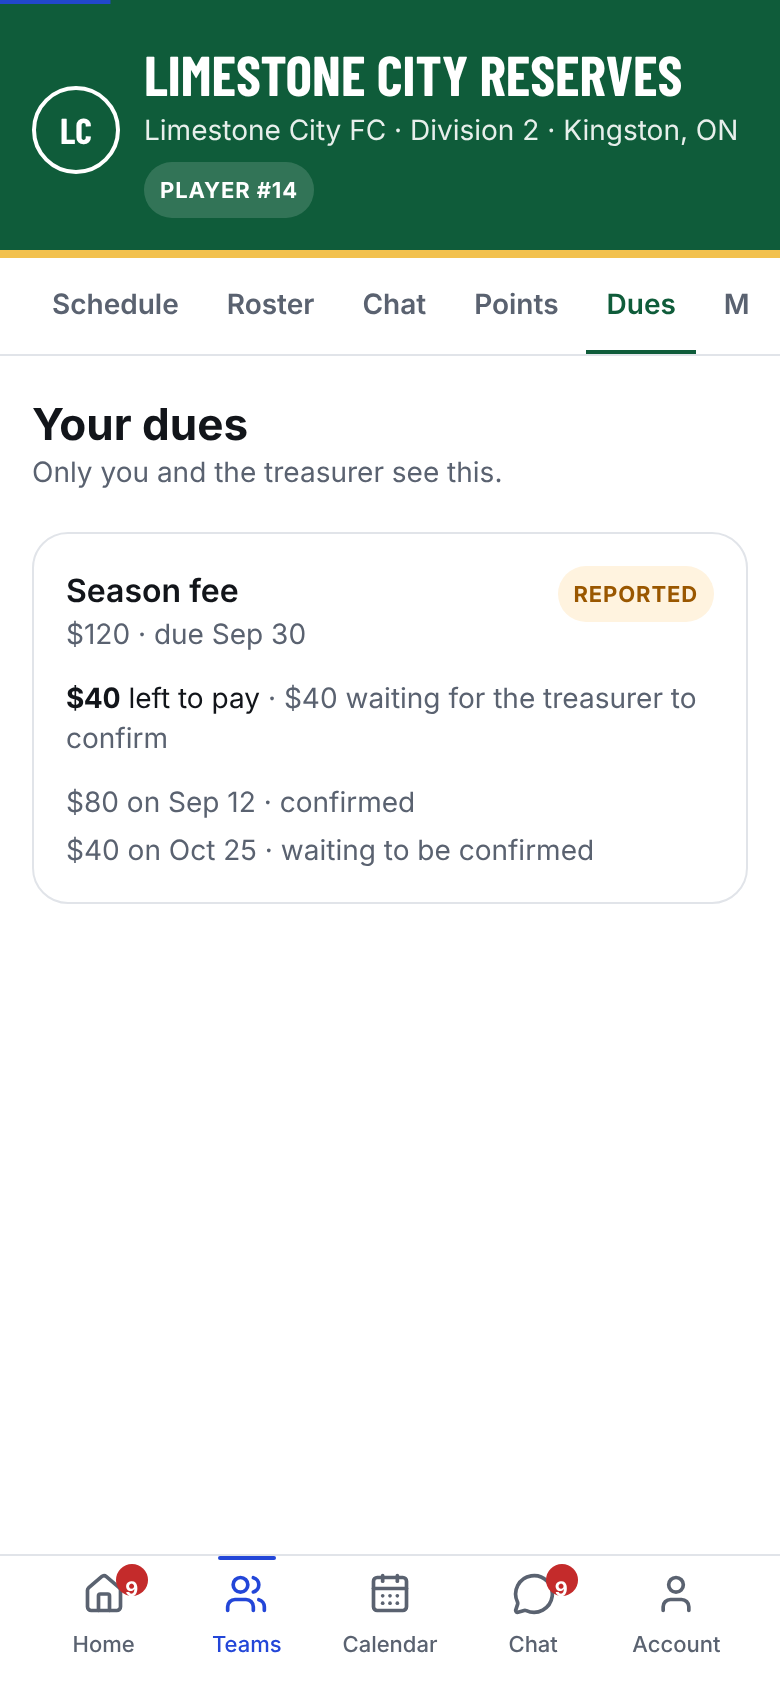
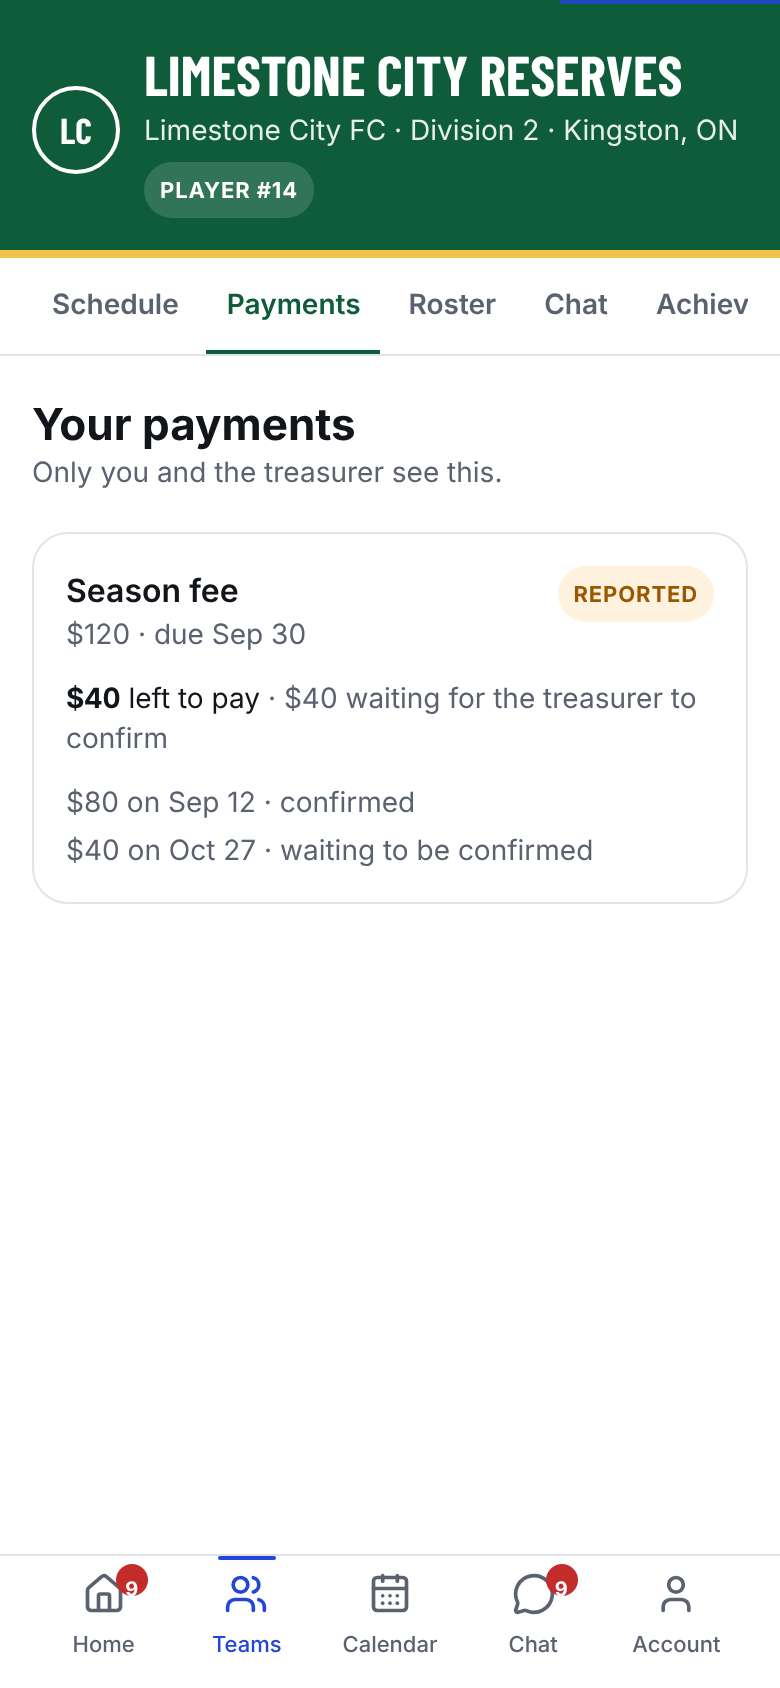
Payments tab next to Schedule, shown to every member (was Dues, hidden for some)
Claude-Session: https://claude.ai/code/session_01ErGsB6M5fXQxgMj1xA9MPR

diff --git a/src/app/(app)/t/[teamId]/dues/page.tsx b/src/app/(app)/t/[teamId]/dues/page.tsx
@@ -8,7 +8,7 @@ import { teamCollector } from "@/lib/payments/service";
 import { priceFor } from "@/lib/payments/pricing";
 import { CollectorPanel, PayButton } from "@/components/payments";
 
-export const metadata: Metadata = { title: "Dues" };
+export const metadata: Metadata = { title: "Payments" };
 
 const money = (c: number) => new Intl.NumberFormat("en-CA", { style: "currency", currency: "CAD", maximumFractionDigits: c % 100 ? 2 : 0 }).format(c / 100);
 const day = (d: string) => new Date(d + "T12:00:00Z").toLocaleDateString("en-CA", { month: "short", day: "numeric", timeZone: "UTC" });
@@ -30,12 +30,12 @@ export default async function DuesPage({ params, searchParams }: { params: Promi
     return (
       <div className="grid gap-5">
         <div>
-          <h2 className="text-xl font-bold">Your dues</h2>
+          <h2 className="text-xl font-bold">Your payments</h2>
           <p className="text-sm text-muted">Only you and the treasurer see this.</p>
         </div>
         {cancelled}
         {d.mine.length === 0 ? (
-          <EmptyState icon={<Wallet />} title="Nothing to pay" hint="If the team adds a fee, it shows up here." />
+          <EmptyState icon={<Wallet />} title="Nothing to pay" hint="Season fees from your team show up here. Game fees are on each event." />
         ) : (
           d.mine.map((m) => (
             <section key={m.dueId} aria-label={m.fee} className="grid gap-3 rounded-lg border border-border p-4">
@@ -87,7 +87,7 @@ export default async function DuesPage({ params, searchParams }: { params: Promi
     <div className="grid gap-5">
       {cancelled}
       <div className="flex flex-wrap items-baseline justify-between gap-2">
-        <h2 className="text-xl font-bold">Dues</h2>
+        <h2 className="text-xl font-bold">Payments</h2>
         <a href={`/t/${teamId}/export/dues.csv`} className="text-sm font-semibold text-team-ink">
           Export to a spreadsheet
         </a>

diff --git a/src/app/(app)/t/[teamId]/layout.tsx b/src/app/(app)/t/[teamId]/layout.tsx
@@ -1,5 +1,5 @@
 import { notFound } from "next/navigation";
-import { getSessionUser, getTeam, getTeamDues, myPerms } from "@/lib/data";
+import { getSessionUser, getTeam, myPerms } from "@/lib/data";
 import { TeamTabs } from "@/components/nav";
 import { HatBadges } from "@/components/hats";
 import { hatLabels } from "@/lib/data/types";
@@ -12,10 +12,9 @@ export default async function TeamLayout({ children, params }: { children: React
   const { teamId } = await params;
   const [team, user] = await Promise.all([getTeam(teamId), getSessionUser()]);
   if (!team) notFound();
-  const [perms, dues, honours] = await Promise.all([myPerms(teamId), getTeamDues(teamId), teamHonours(teamId)]);
+  const [perms, honours] = await Promise.all([myPerms(teamId), teamHonours(teamId)]);
   const wins = honours.filter((h) => h.place === "champions").length;
   const seconds = honours.length - wins;
-  const hasDues = !!dues && (dues.mine.length > 0 || dues.fees.length > 0);
   const subtitle = [team.club?.name, team.level, team.location].filter(Boolean).join(" · ");
   return (
     // Team colour vars for this id are already emitted by the app layout.
@@ -65,7 +64,7 @@ export default async function TeamLayout({ children, params }: { children: React
           </div>
         </div>
       </header>
-      <TeamTabs teamId={team.id} show={{ settings: perms.settings, points: team.settings.pointsEnabled && (team.settings.pointsPublic || perms.staff), dues: hasDues || perms.payments }} />
+      <TeamTabs teamId={team.id} show={{ settings: perms.settings, points: team.settings.pointsEnabled && (team.settings.pointsPublic || perms.staff) }} />
       <main id="main" className="gutter mx-auto max-w-3xl py-5">
         {children}
       </main>

diff --git a/src/components/nav.tsx b/src/components/nav.tsx
@@ -99,16 +99,16 @@ export function PrimaryNav({ pendingCount, chatCount = 0 }: { pendingCount: numb
   );
 }
 
-export function TeamTabs({ teamId, show = {} }: { teamId: string; show?: { points?: boolean; dues?: boolean; settings?: boolean } }) {
+export function TeamTabs({ teamId, show = {} }: { teamId: string; show?: { points?: boolean; settings?: boolean } }) {
   const path = usePathname();
   const tabs = [
     { href: `/t/${teamId}/schedule`, label: "Schedule", match: (p: string) => p.includes("/schedule") || p.includes("/e/") },
+    { href: `/t/${teamId}/dues`, label: "Payments", match: (p: string) => p.includes("/dues") },
     { href: `/t/${teamId}/roster`, label: "Roster", match: (p: string) => p.includes("/roster") || p.includes("/you") || p.includes("/p/") },
     { href: `/t/${teamId}/chat`, label: "Chat", match: (p: string) => p.includes("/chat") },
     { href: `/t/${teamId}/achievements`, label: "Achievements", match: (p: string) => p.includes("/achievements") },
     { href: `/t/${teamId}/share`, label: "Share", match: (p: string) => p.includes("/share") },
     ...(show.points ? [{ href: `/t/${teamId}/points`, label: "Points", match: (p: string) => p.includes("/points") || p.includes("/seasons") }] : []),
-    ...(show.dues ? [{ href: `/t/${teamId}/dues`, label: "Dues", match: (p: string) => p.includes("/dues") }] : []),
     { href: `/t/${teamId}/messages`, label: "Messages", match: (p: string) => p.includes("/messages") },
     ...(show.settings ? [{ href: `/t/${teamId}/settings`, label: "Settings", match: (p: string) => p.includes("/settings") || p.includes("/venues") }] : []),
   ];

diff --git a/tests/live_features.py b/tests/live_features.py
@@ -99,7 +99,7 @@ with sync_playwright() as pw:
         c.fill("input[name=name]", "Season fee"); c.fill("input[name=amount]", "120")
         c.get_by_role("button", name="Add fee").click(); expect(c.get_by_text("$120").first).to_be_visible(); settle(c)
         assert sql("select count(*) from dues") == "2"; step("Jin adds a $120 season fee; both players owe it")
-        k.goto(f"{BASE}/t/{TEAM}/dues"); expect(k.get_by_text("Your dues")).to_be_visible()
+        k.goto(f"{BASE}/t/{TEAM}/dues"); expect(k.get_by_text("Your payments")).to_be_visible()
         k.get_by_role("button", name="I've paid").click(); expect(k.get_by_text("waiting for the treasurer to confirm")).to_be_visible(); settle(k)
         assert sql("select count(*) from payments") == "1"; step("Kai reports paying")
         c.reload(); c.get_by_role("button", name="Confirm").first.click(); c.wait_for_timeout(1000)

diff --git a/tests/smoke_matchday.py b/tests/smoke_matchday.py
@@ -27,7 +27,7 @@ with sync_playwright() as pw:
     full = r.locator("li", has_text="Leo Grant").first
     expect(full.get_by_text("This car is full")).to_be_visible(); step("full car shows as full")
     # dues: Rahul's own balance on the Reserves
-    r.goto(f"{BASE}/t/t-reserves/dues"); expect(r.get_by_text("Your dues")).to_be_visible()
+    r.goto(f"{BASE}/t/t-reserves/dues"); expect(r.get_by_text("Your payments")).to_be_visible()
     r.get_by_role("button", name="I've paid").click(); expect(r.get_by_text("waiting for the treasurer to confirm")).to_be_visible()
     r.screenshot(path=f"{OUT}/S-dues-player.png", full_page=True); step("Rahul reports his $40")
     # treasurer confirms
